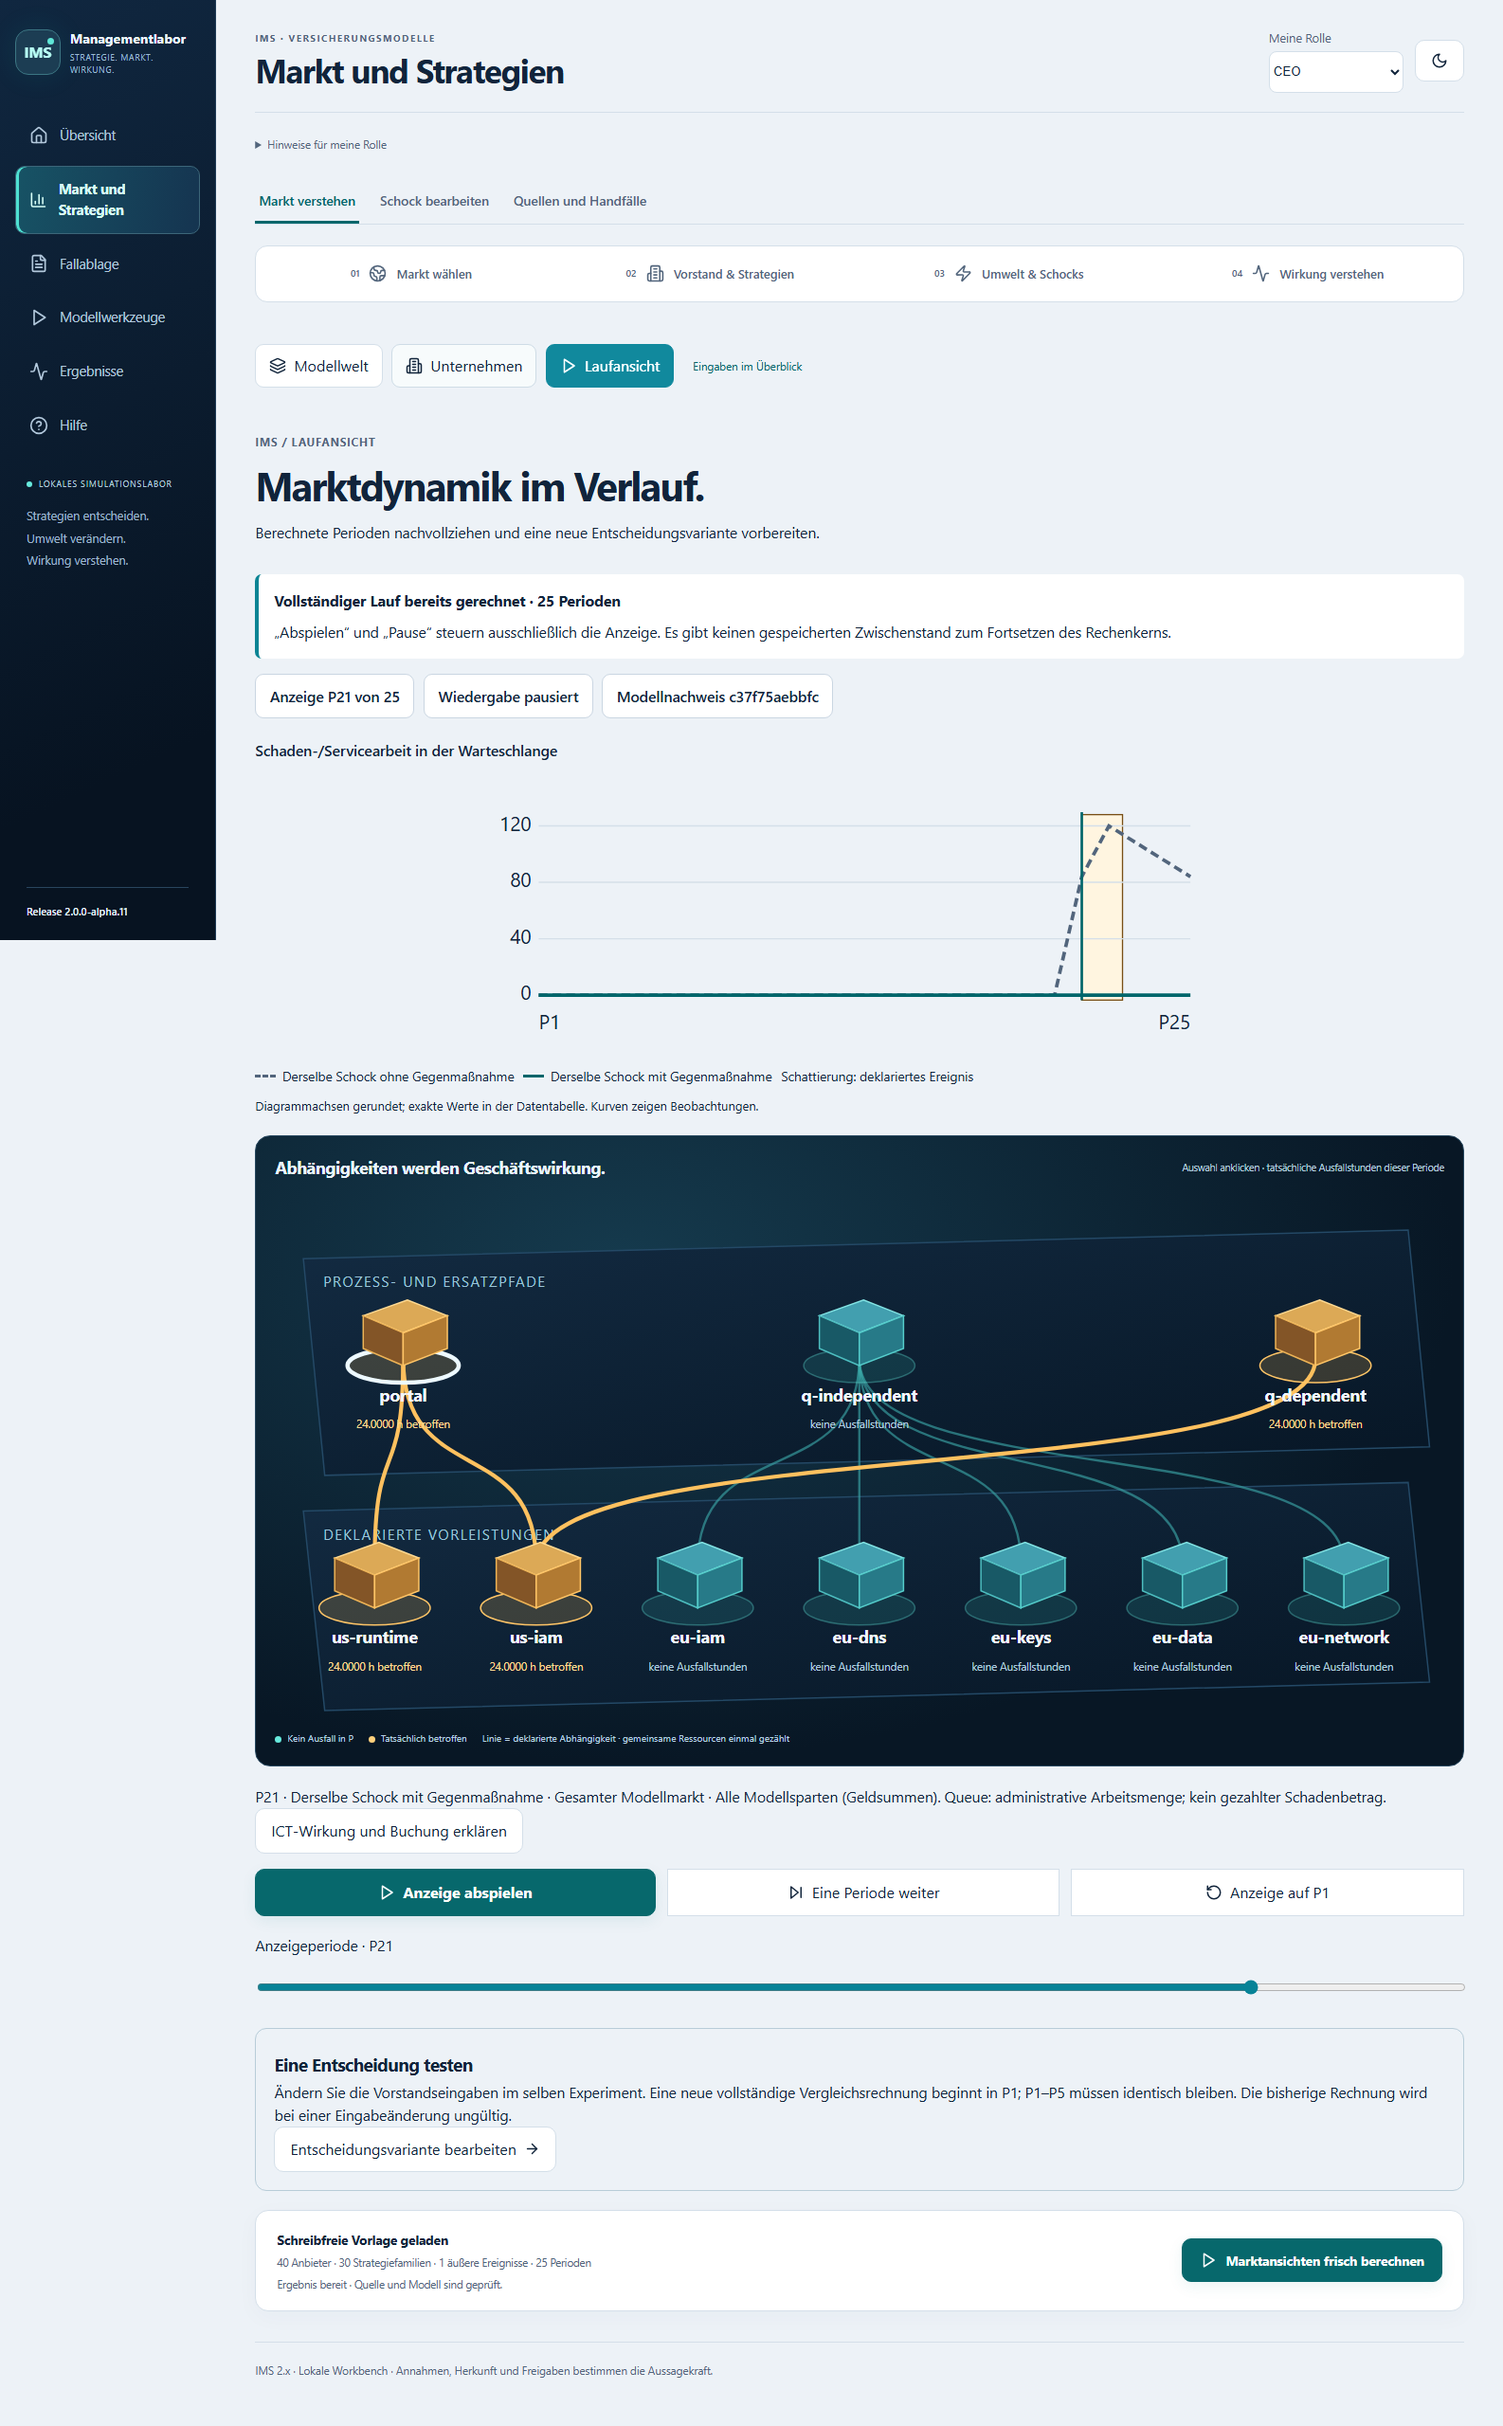
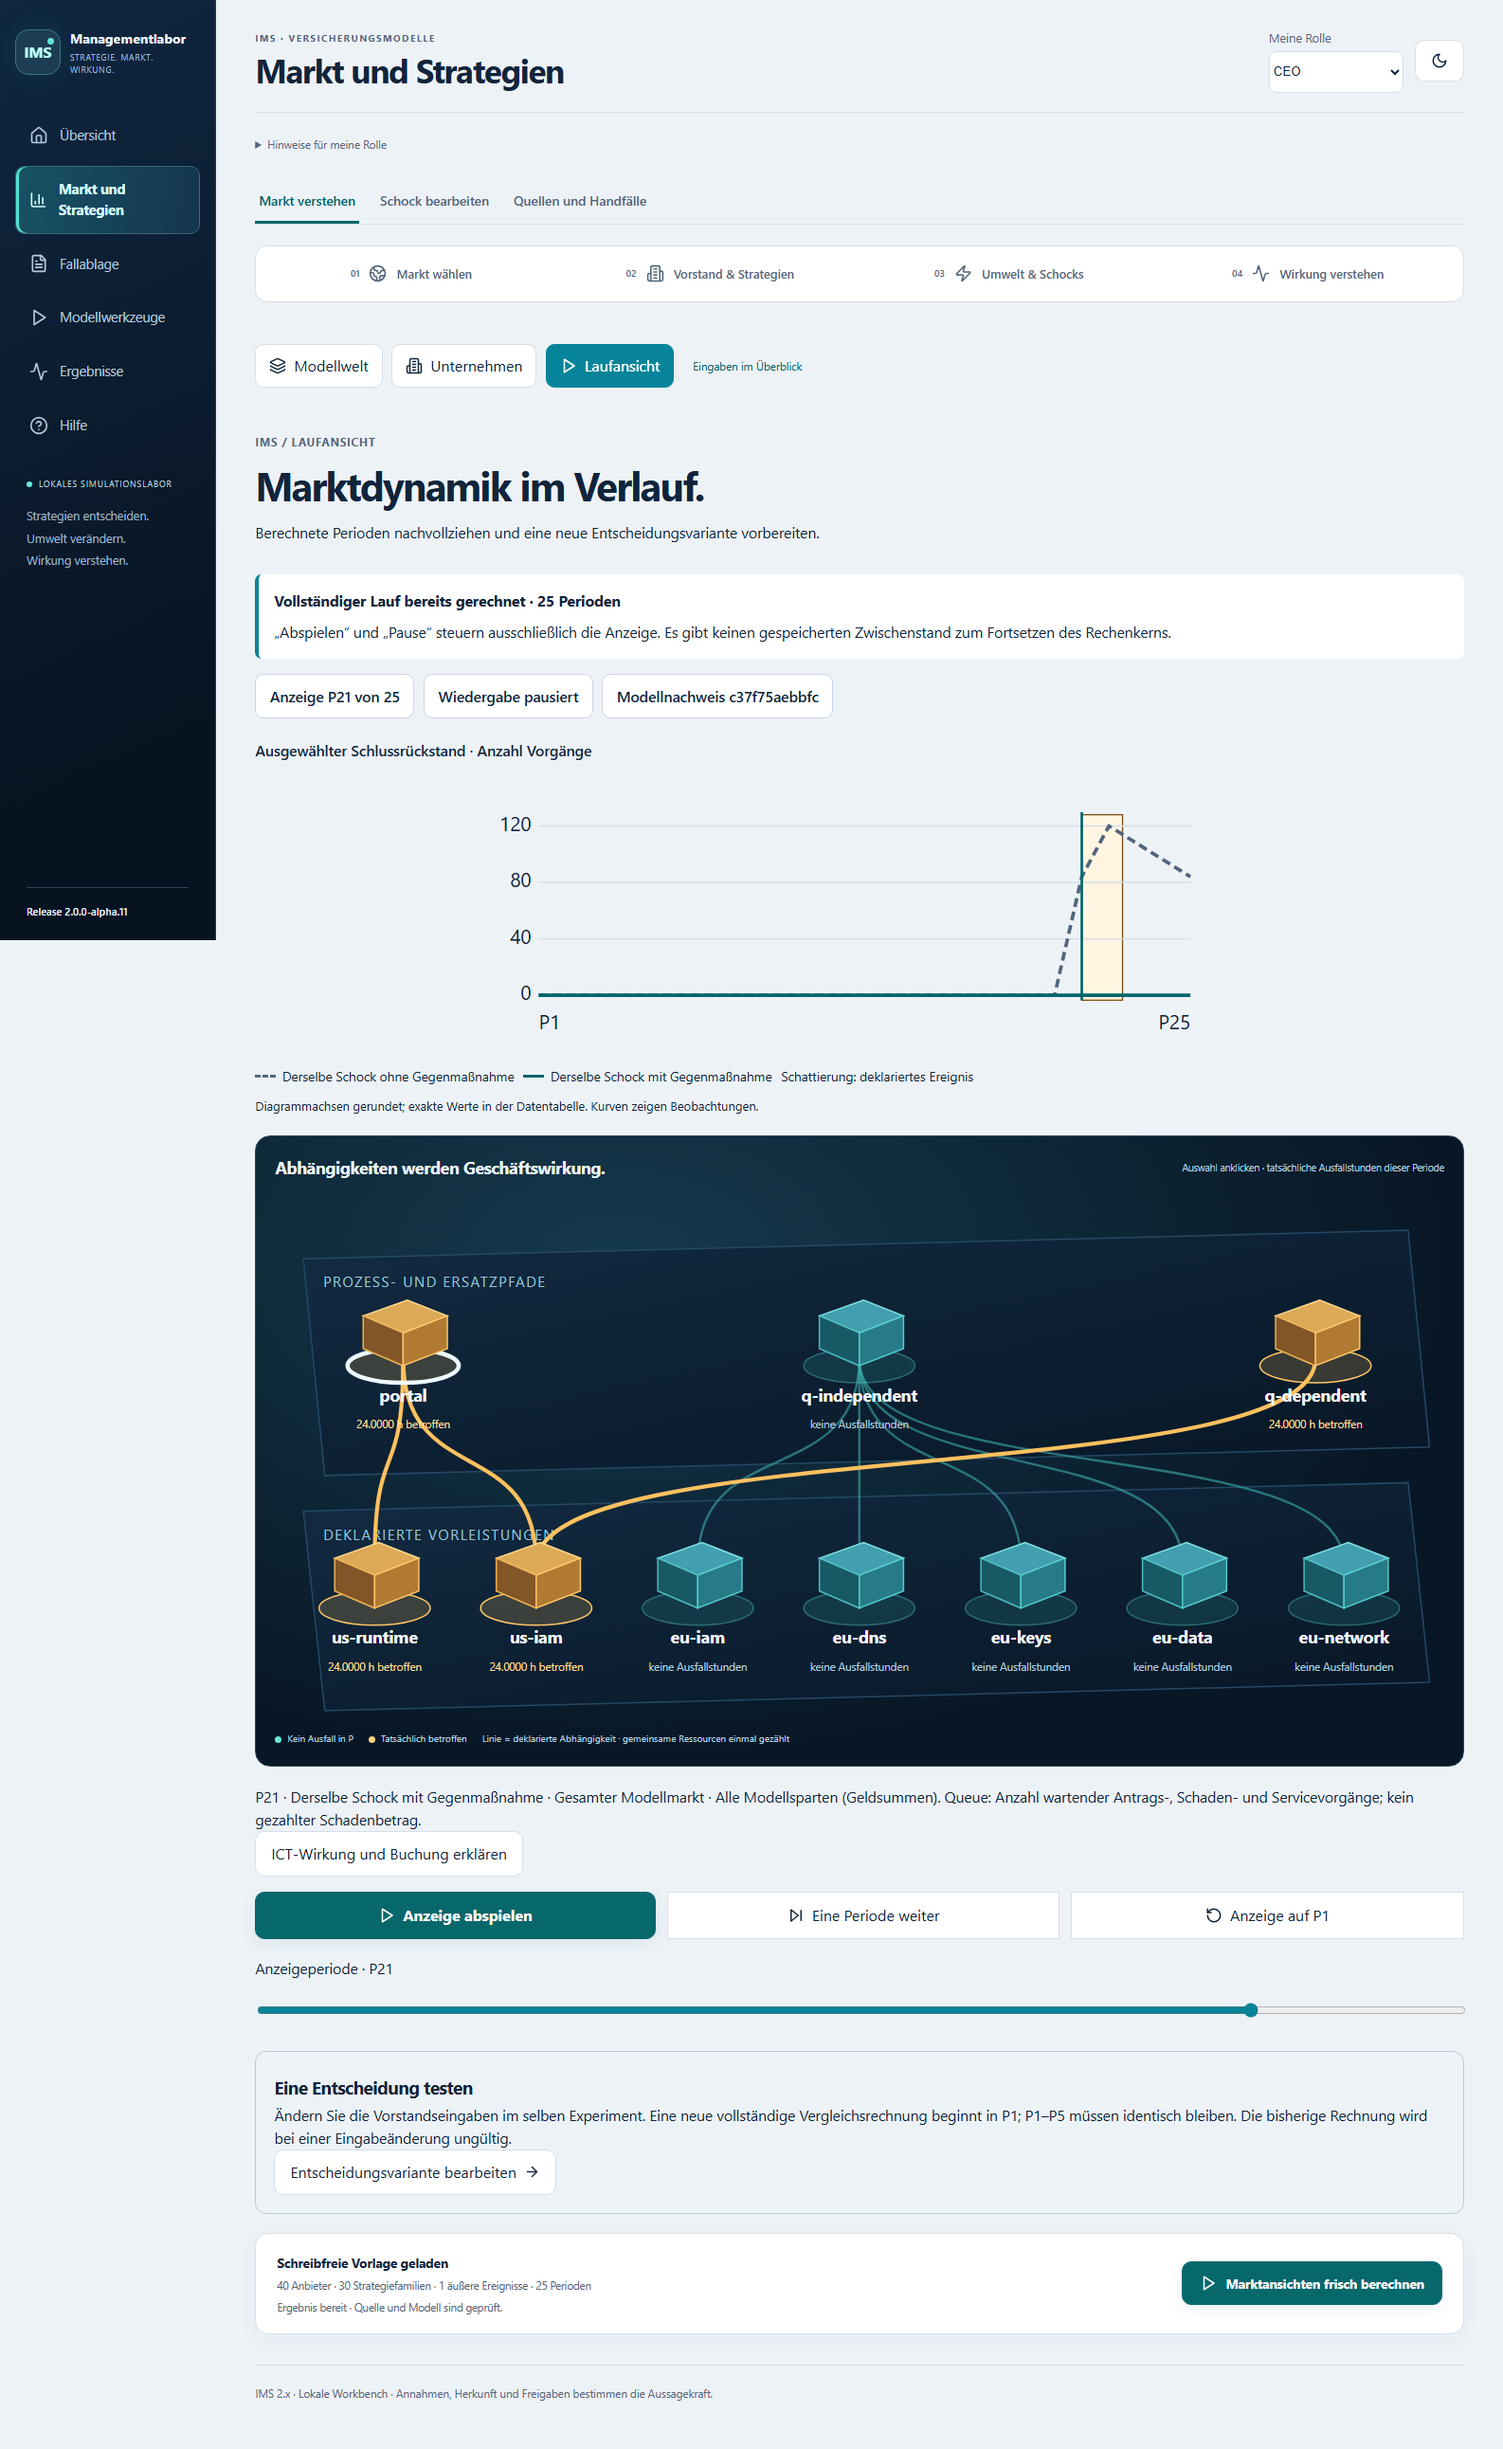
Präzisiere Vorgangszahl und Prozessarten in der AP8-Laufwiedergabe

diff --git a/frontend/src/MarketExplorerWorkbench.tsx b/frontend/src/MarketExplorerWorkbench.tsx
@@ -108,7 +108,7 @@ export default function MarketExplorerWorkbench() {
     {stage!=="market"&&<h2 className="experiment-accessible-heading">{stage==="board"?"Vorstand und Strategien":stage==="environment"?"Umwelt und Schocks":stage==="world"?"Modellwelt":stage==="companies"?"Unternehmen":stage==="run"?"Laufansicht":"Wirkung verstehen"}</h2>}
     <div hidden={stage!=="world"}><ModelWorld source={source} valid={!!result} onNavigate={setStage}/></div>
     <div hidden={stage!=="companies"}><CompanyPortfolio source={source} result={result} period={period} side={side} focus={focus} onFocus={setFocus} onEdit={()=>setStage("board")}/></div>
-    <div hidden={stage!=="run"}><RunReplay result={result} period={period} playing={playing} onPeriod={setPeriod} onPlaying={setPlaying} onEdit={()=>setStage("board")}>{result&&view&&<><Curve title="Schaden-/Servicearbeit in der Warteschlange" series={(["baseline","variant"] as Side[]).map((s,i)=>({label:labels[s],values:view.queues[i]}))} period={period} change={setPeriod} events={events}/><ProviderNetwork assets={result.schedules.ict.assets||[]} actual={periodRows(result,side,"dependency_rows",period)} selected={asset} onSelect={setAsset}/><p>P{period} · {labels[side]} · {groupLabel} · {names[sector as keyof typeof names]}. Queue: administrative Arbeitsmenge; kein gezahlter Schadenbetrag.</p><button className="secondary-action" onClick={()=>{setStage("results");setActiveView("provider");}}>ICT-Wirkung und Buchung erklären</button></>}</RunReplay></div>
+    <div hidden={stage!=="run"}><RunReplay result={result} period={period} playing={playing} onPeriod={setPeriod} onPlaying={setPlaying} onEdit={()=>setStage("board")}>{result&&view&&<><Curve title="Ausgewählter Schlussrückstand · Anzahl Vorgänge" series={(["baseline","variant"] as Side[]).map((s,i)=>({label:labels[s],values:view.queues[i]}))} period={period} change={setPeriod} events={events}/><ProviderNetwork assets={result.schedules.ict.assets||[]} actual={periodRows(result,side,"dependency_rows",period)} selected={asset} onSelect={setAsset}/><p>P{period} · {labels[side]} · {groupLabel} · {names[sector as keyof typeof names]}. Queue: Anzahl wartender Antrags-, Schaden- und Servicevorgänge; kein gezahlter Schadenbetrag.</p><button className="secondary-action" onClick={()=>{setStage("results");setActiveView("provider");}}>ICT-Wirkung und Buchung erklären</button></>}</RunReplay></div>
 
     <div hidden={stage!=="market"}>
     <div className="explorer-intro"><div><h3>Ein Markt. Zwei Vergleichsseiten.</h3><p>Öffnen Sie einen erklärten Fall und verfolgen Sie seine Wirkung im gemeinsamen Modellmarkt.</p></div><a className="explorer-help" href="/api/seminar/handbook/market_ap8.html" target="_blank" rel="noreferrer">Anleitung öffnen <ArrowRight size={16} aria-hidden="true"/></a></div>

diff --git a/docs/handbook/market_ap8.html b/docs/handbook/market_ap8.html
@@ -13,7 +13,7 @@
 <h2>Modellwelt, Unternehmen und Laufansicht</h2>
 <p><strong>Modellwelt</strong> zeigt fünf auswählbare Ebenen Ihrer geladenen Quelle. Eine Ebene mit der Maus oder Tab/Enter auswählen; rechts erscheinen Quellenpfad und fachliche Grenze. Die Perspektive erklärt eine Struktur, keine räumliche Rechnung. Ohne Rechnung steht ausdrücklich „Quelle geladen · Rechnung noch offen“.</p>
 <p><strong>Unternehmen</strong> enthält eine durchsuchbare Liste und einen Fokusinspektor. Vor der Rechnung stehen dort nur deklarierte Profile, danach gebuchte Beiträge, Periodenergebnis und Modellanteile. Der Beitragsnenner umfasst alle Anbieter der ausgewählten Sparte/Seite/Periode. Der Spartenmix im Fokusprofil verwendet die tatsächlich gebuchten Beiträge dieses Anbieters über alle Sparten. <strong>Strategie bearbeiten</strong> öffnet denselben Fokus im Vorstandsbereich. Der Mehrfachvergleich filtert nur die Anzeige.</p>
-<p><strong>Laufansicht</strong> gibt bereits berechnete Perioden wieder. <strong>Anzeige abspielen</strong>, <strong>Anzeige pausieren</strong>, <strong>Eine Periode weiter</strong> und <strong>Anzeige auf P1</strong> ändern keine Rechnung. Für eine neue Entscheidung die Vorstandsvariante bearbeiten und vollständig neu berechnen; es gibt keine Kernfortsetzung ab dem angezeigten Zeitpunkt. Die Warteschlange misst administrative Arbeit, keinen gezahlten Schadenbetrag. Das ICT-Netz zeigt dieselben deklarierten Kanten und tatsächlichen Ausfallzeilen wie die Auswertung.</p>
+<p><strong>Laufansicht</strong> gibt bereits berechnete Perioden wieder. <strong>Anzeige abspielen</strong>, <strong>Anzeige pausieren</strong>, <strong>Eine Periode weiter</strong> und <strong>Anzeige auf P1</strong> ändern keine Rechnung. Für eine neue Entscheidung die Vorstandsvariante bearbeiten und vollständig neu berechnen; es gibt keine Kernfortsetzung ab dem angezeigten Zeitpunkt. Die Warteschlange zeigt die Anzahl wartender Antrags-, Schaden- und Servicevorgänge. Schaden-/Servicevorgänge bilden administrative Bearbeitung ab; ihr Rückstand ist kein gezahlter Schadenbetrag. Das ICT-Netz zeigt dieselben deklarierten Kanten und tatsächlichen Ausfallzeilen wie die Auswertung.</p>
 <p><img src="images/ap8_modelworld_light.png" alt="Modellwelt aus dem tatsächlichen alpha.11-Fall im Hellmodus" loading="lazy"></p>
 <p><img src="images/ap8_modelworld_dark.png" alt="Modellwelt im Dunkelmodus" loading="lazy"></p>
 <p><img src="images/ap8_portfolio_light.png" alt="Unternehmensportfolio aus berechneten Modellzeilen" loading="lazy"></p>

diff --git a/frontend/tests-browser/market-modelworld.spec.ts b/frontend/tests-browser/market-modelworld.spec.ts
@@ -33,6 +33,8 @@ for (const theme of ["light","dark"]) for(const viewport of [{width:1440,height:
   expect((await new AxeBuilder({page}).analyze()).violations).toEqual([]);
   expect(await page.evaluate(()=>document.documentElement.scrollWidth)).toBeLessThanOrEqual(viewport.width);
   await panel.getByRole("button",{name:"Laufansicht",exact:true}).click();const replay=panel.getByTestId("run-replay");
+  await expect(replay).toContainText("Ausgewählter Schlussrückstand · Anzahl Vorgänge");
+  await expect(replay).toContainText("Anzahl wartender Antrags-, Schaden- und Servicevorgänge");
   await expect(replay).toContainText("Vollständiger Lauf bereits gerechnet");await replay.getByRole("button",{name:"Anzeige auf P1",exact:true}).click();
   await replay.getByRole("button",{name:"Eine Periode weiter",exact:true}).click();await expect(replay).toContainText("Anzeige P2 von 10");
   await replay.getByRole("button",{name:"Anzeige abspielen",exact:true}).click();await expect(replay).toContainText("Anzeige P3 von 10");

diff --git a/scripts/installer/render_seminar_handbook.py b/scripts/installer/render_seminar_handbook.py
@@ -1,4 +1,4 @@
-"""Render the AP3/AP4/AP5 guides as offline HTML, using their Markdown constructs."""
+"""Render IMS user guides, core documentation and input inventory as offline HTML."""
 import argparse
 from html import escape
 from pathlib import Path

diff --git a/docs/handbook/market_ap8.md b/docs/handbook/market_ap8.md
@@ -52,7 +52,7 @@ Seitenkopf enthält zusätzliche Orientierung. Für einen Import öffnen Sie
 
 **Unternehmen** enthält eine durchsuchbare Liste und einen Fokusinspektor. Vor der Rechnung stehen dort nur deklarierte Profile, danach gebuchte Beiträge, Periodenergebnis und Modellanteile. Der Beitragsnenner umfasst alle Anbieter der ausgewählten Sparte/Seite/Periode. Der Spartenmix im Fokusprofil verwendet die tatsächlich gebuchten Beiträge dieses Anbieters über alle Sparten. **Strategie bearbeiten** öffnet denselben Fokus im Vorstandsbereich. Der Mehrfachvergleich filtert nur die Anzeige.
 
-**Laufansicht** gibt bereits berechnete Perioden wieder. **Anzeige abspielen**, **Anzeige pausieren**, **Eine Periode weiter** und **Anzeige auf P1** ändern keine Rechnung. Für eine neue Entscheidung die Vorstandsvariante bearbeiten und vollständig neu berechnen; es gibt keine Kernfortsetzung ab dem angezeigten Zeitpunkt. Die Warteschlange misst administrative Arbeit, keinen gezahlten Schadenbetrag. Das ICT-Netz zeigt dieselben deklarierten Kanten und tatsächlichen Ausfallzeilen wie die Auswertung.
+**Laufansicht** gibt bereits berechnete Perioden wieder. **Anzeige abspielen**, **Anzeige pausieren**, **Eine Periode weiter** und **Anzeige auf P1** ändern keine Rechnung. Für eine neue Entscheidung die Vorstandsvariante bearbeiten und vollständig neu berechnen; es gibt keine Kernfortsetzung ab dem angezeigten Zeitpunkt. Die Warteschlange zeigt die Anzahl wartender Antrags-, Schaden- und Servicevorgänge. Schaden-/Servicevorgänge bilden administrative Bearbeitung ab; ihr Rückstand ist kein gezahlter Schadenbetrag. Das ICT-Netz zeigt dieselben deklarierten Kanten und tatsächlichen Ausfallzeilen wie die Auswertung.
 
 ![Modellwelt aus dem tatsächlichen alpha.11-Fall im Hellmodus](images/ap8_modelworld_light.png)
 

diff --git a/docs/reports/ims_ap8_modelworld_fortschritt.md b/docs/reports/ims_ap8_modelworld_fortschritt.md
@@ -13,3 +13,5 @@ Responsive Hell-/Dunkelproben, Tastatur/AXE und grafische Sichtprüfung der sech
 Der erste Windows-Release-Gate-Lauf am Produktpunkt f9e6b05 meldete 2.763 bestandene Tests/14 Subtests und eine veraltete Handbuchindex-Erwartung („Handbuchstand: PR178a“). Die Prüfung wurde auf die aktuellen Menüwege und die vorhandenen Eingabe-/Rechenkernziele aktualisiert; alle fünf Handbuchprüfungen bestehen lokal. [Unveränderter Fehlerbeleg](https://github.com/junker-joerg/ims/actions/runs/37422825328/job/112135769482). Ein neuer Produktpunkt erhält die vier vollständigen CI-Prüfungen. Die Produktfassung alpha.11 ist noch nicht ausgeliefert.
 
 Nächster Schritt: vier reale CI-Checks, vollständige Browser-/Digestnachweise und authentischen Windows-Installer am korrigierten Produktpunkt prüfen. AP8-Anwenderabnahme und Merge bleiben offen. AP9–AP14 nicht beauftragt.
+
+Die abschließende Einheitenprüfung korrigiert außerdem die neue Laufkurve: Sie summiert closing_queue als Anzahl wartender Vorgänge über Anträge, Schaden und Service. Titel, Erläuterung, Anleitung und neue Browserbilder werden dazu präzisiert; Daten, Nenner und Kernrechnung bleiben unverändert. Der endgültige Produktpunkt enthält diese Korrektur.
